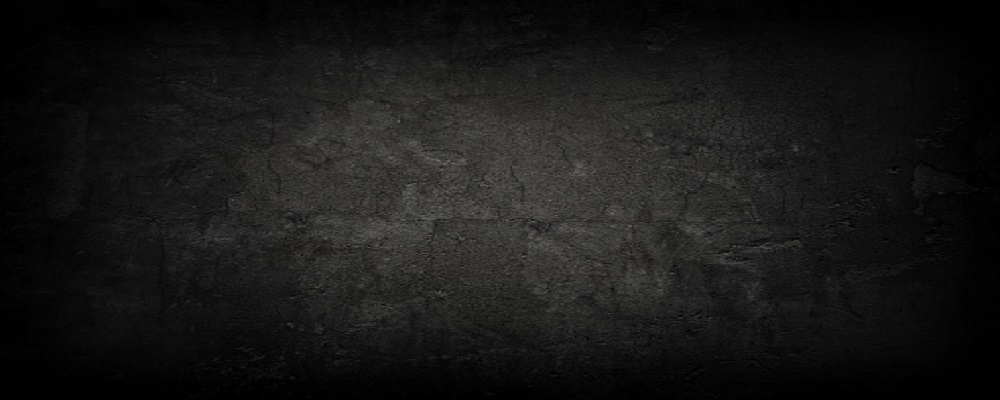
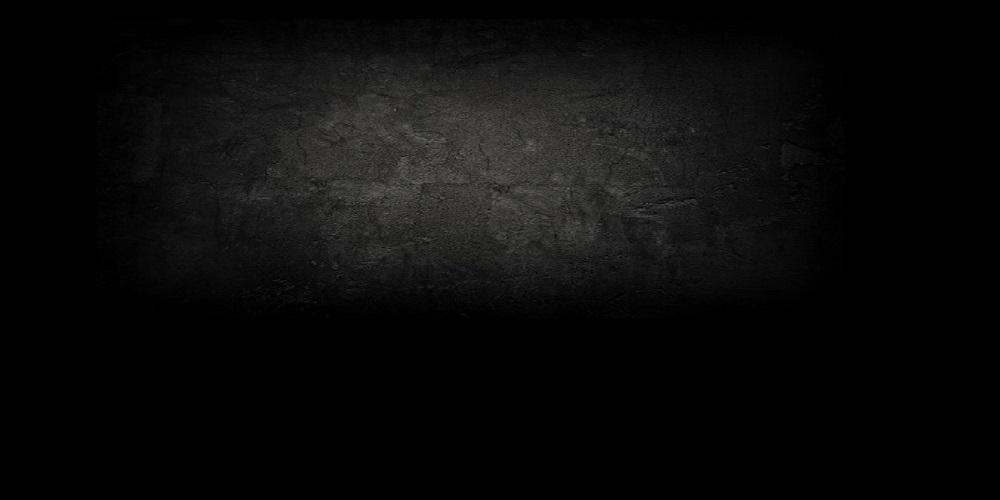
更新程式碼

Changed region(s): [[0.124, 0.3, 0.868, 0.9], [0.31, 0.18, 0.558, 0.39]]

diff --git a/PersonalWeb/static/css/style.css b/PersonalWeb/static/css/style.css
@@ -107,6 +107,32 @@ body {
 
 /* -------------------- 自定義 -------------------------------*/
 
+.matt {
+  color: red;
+  font-weight: bold;
+}
+
+.about{
+  margin-left: 100px;
+  margin-right: 100px;
+  margin-top: 100pt;
+  margin-bottom: 300px;
+  background-image: url(../background.jpg);
+}
+
+.cont{
+  font-weight: bold;
+  font-family: "Microsoft YaHei";
+}
+
+.divider{
+  height: 10px;
+  width: 100%;
+  background-color:#717171; 
+  margin-top: 150px ;
+  margin-bottom: 150px;
+}
+
 
 .social {
   height: 35px;
@@ -114,15 +140,7 @@ body {
   margin-right: 10px;
 }
 
-.divider{
-  position: relative;
-  height: 10px;
-  width: 100%;
-  background-color:#717171; 
-  
-  margin-top: 150px ;
-  margin-bottom: 150px;
-}
+
 
 .divider1{
   position: relative;
@@ -133,20 +151,8 @@ body {
   margin-top: 150px ;
 }
 
-.step{
-  margin-top: 100px;
-  font-weight: bold;
-  font-family: "Microsoft YaHei";
 
-}
 
-.about{
-  margin-left: 100px;
-  margin-right: 100px;
-  height: 400px;
-  background-image: url(../background.jpg);
-  margin-bottom: 50px;
-}
 
 .school{
   font-weight: bold;
@@ -158,10 +164,7 @@ body {
   padding-left: 10px;
 }
 
-.cont{
-  font-weight: bold;
-  font-family: "Microsoft YaHei";
-}
+
 
 .education{
   margin-bottom: 150px;
@@ -219,11 +222,7 @@ body {
   margin-top: 50px;
 }
 
-.matt {
-  color: red;
-  font-weight: bold;
 
-}
 
 .mylist{
   background-color: #404040;

diff --git a/PersonalWeb/templates/index.html b/PersonalWeb/templates/index.html
@@ -1,7 +1,7 @@
 {% extends 'base.html' %}
 {% block main %}
 <div class="about">
-<h1 class="cover-heading display-3 step" >轉職的道路沒有捷徑, 唯有樂觀進取, 一步一腳印｡</h1>
+<h1 class="cover-heading display-3 cont" >轉職的道路沒有捷徑, 唯有樂觀進取, 一步一腳印｡</h1>
 <p class="lead cont">
   我是張家豪,有接近十年的教學經驗｡ 近年開始自學與進修, 人生的下半場以資料分析師跟後端工程師為目標,
   您的寶貴經驗與意見會是我最大的動力, 歡迎留言給我｡
@@ -12,7 +12,7 @@
 </div>
 
 <div id="education"></div>
-<center><div class="divider "></div></center>
+<center><div class="divider"></div></center>
 
 <div class="row featurette education">
     <div class="col-md-7" >

diff --git a/PersonalWeb/templates/base.html b/PersonalWeb/templates/base.html
@@ -29,7 +29,7 @@
     <div class="cover-container d-flex w-100 h-100 p-3 mx-auto flex-column">
         <header class="masthead mb-auto">
         <div class="inner">
-            <h3 class="masthead-brand display-4">{% block name %}<span class="matt">Matt</span>{% endblock%}</h3>
+            <h3 class="masthead-brand display-4 matt">Matt</h3>
             <nav class="nav nav-masthead justify-content-center">
             <a class="nav-link active" href="{{ url_for('index') }}">首頁</a>
             <a class="nav-link" href="/#education">學歷</a>
